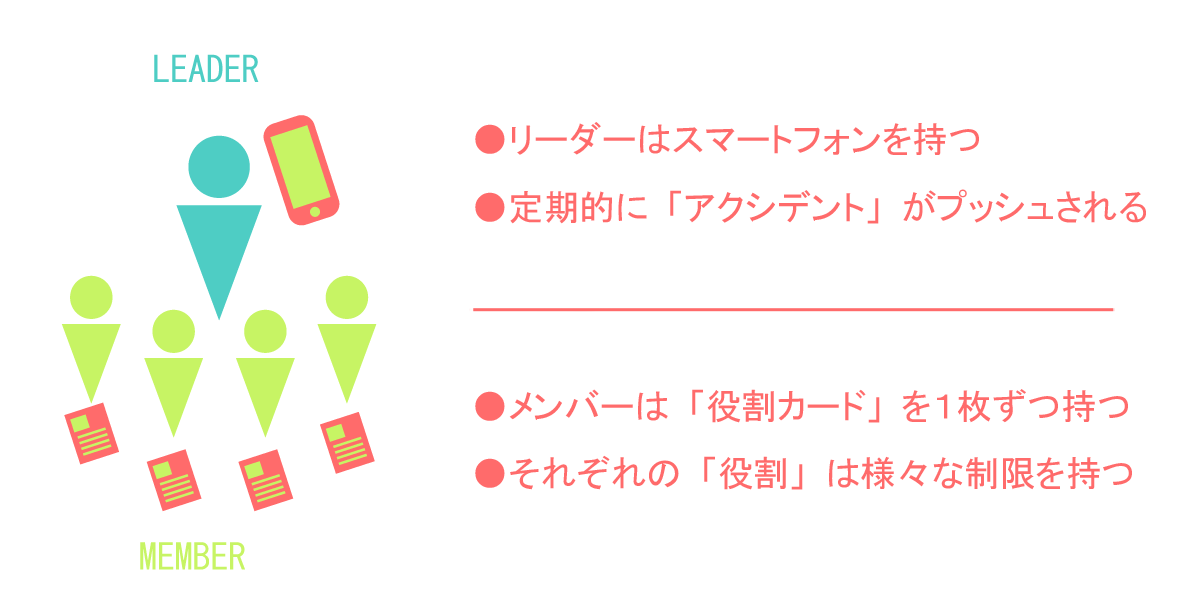
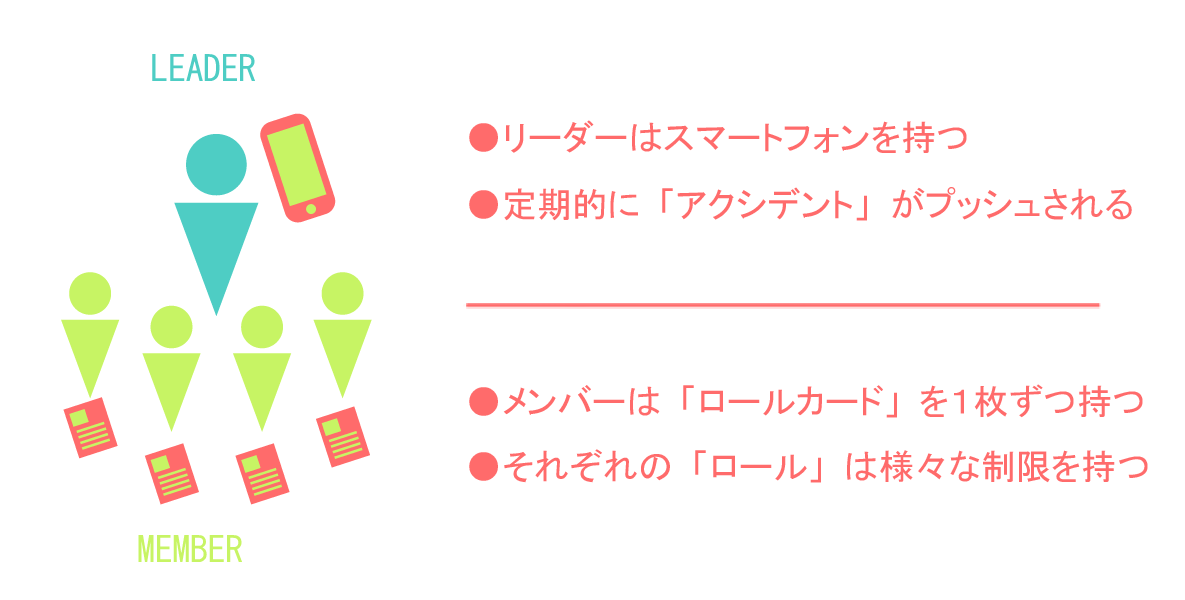
changed app name

diff --git a/leader.html b/leader.html
@@ -70,7 +70,7 @@ function DisConnect() {
                     <span class="icon-bar"></span>
                     <span class="icon-bar"></span>
                 </button>
-                <a class="navbar-brand" href="#">Run for Survive</a>
+                <a class="navbar-brand" href="#">Race to Survive</a>
             </div>
             <div class="navbar-collapse collapse" id="navbar-collapse">
                 <div class="col-sm-3 col-md-4 pull-right">
@@ -101,7 +101,7 @@ function DisConnect() {
                                 <li><a href="data/DOITT_MUSEUM_01_13SEPT2010.geojson" download="museums.geojson" target="_blank" data-toggle="collapse" data-target=".navbar-collapse.in"><i class="fa fa-download"></i>&nbsp;&nbsp;Museums</a></li>
                             </ul>
                     </li-->
-                    <li><a href="https://github.com/bmcbride/bootleaf" data-toggle="collapse" data-target=".navbar-collapse.in"><i class="fa fa-github-alt" style="color: white"></i>&nbsp;&nbsp;GitHub Repo</a></li>
+                    <li><a href="https://github.com/ExcitingEvacuationDrill/RaceToSurvive" data-toggle="collapse" data-target=".navbar-collapse.in"><i class="fa fa-github-alt" style="color: white"></i>&nbsp;&nbsp;GitHub Repo</a></li>
                 </ul>
             </div><!--/.navbar-collapse -->
         </div>

diff --git a/index.html b/index.html
@@ -69,7 +69,7 @@
 </div>
 
 <div class="container text-center">
-<h1>Run to Survive</h1>
+<h1>Race to Survive</h1>
 <p><img src="images/ex.png" style="margin: 50px 0"></p>
 </div>
 
@@ -79,7 +79,7 @@
 <p>オーガナイザー登録してイベントを作成しましょう。イベント当日はアクシデントを発生させてください。</p>
 <p><a href="organizer.html">オーガナイザー用ページ</a></p>
 <p><a href="accident.html">アクシデント一覧</a></p>
-<p><a href="role.html">ロール一覧</a></p>
+<p><a href="role.html">ロールカード一覧</a></p>
 
 <p>各チームのリーダーは参加者ページにアクセスしましょう。</p>
 <p><a href="leader.html">参加者ページ</a></p>

diff --git a/accident.html b/accident.html
@@ -51,7 +51,7 @@ div.description {
   width: 380px;
   height: 200px;
   font-size: 18pt;
-  background-color: #f99;
+  background-color: #fbb;
 }
 
 </style>
